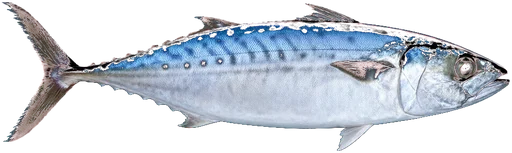
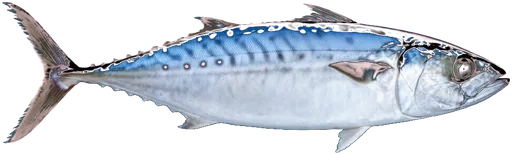
r29：25 种鱼重出为闭嘴素材 + 水族馆按习性水层放鱼
鱼图（素材层）
- fishbatch.ps1 改成自包含（PSScriptRoot 取路径、可直接输出 webp），prompt 里写死闭嘴、negative 补 open mouth/parted lips/teeth
- 25 张全部按新 prompt 重出，逐张裁头验收；原先张嘴明显的（尖吻鲈、白斑狗鱼、鲤鱼、海鲈、鬼头刀、军曹鱼、黄鳍金枪鱼、鳜鱼…）
  再用 Qwen-Image-Edit 以「抬下颌到嘴唇相触」为指令重绘，二次验收后替换
- 只剩大口黑鲈嘴角一条细缝：两种文生图模型 + 编辑模型多 seed + 局部重绘都没压住，已写进已知限制

水族馆（逻辑层）
- species.js 每条鱼新增 layer：top/mid/bot，多水层用 | 分隔（如鲈鱼 top|mid）
- my.js 新增 LAYER_BAND / layerOf / bandY：画布纵向切三段（0.18–0.34 / 0.33–0.55 / 0.55–0.645），
  多水层的鱼每条随机挑一层；底层鱼浮动幅度减半，鱼在水面带以下、河床以上活动
- sw 缓存 v25、资源版本 20261020M、构建号 r29；.gitignore 补 __pycache__

diff --git a/assets/species.js b/assets/species.js
@@ -7,132 +7,134 @@
    lures: 推荐拟饵（3 条）
    tip: 一句话作钓要点
    color/fin/stripe：水族馆里的外形参数（不是为了写实，是为了认得出来）
+   layer: 习性水层 top（中上层）| mid（中层）| bot（底层）；多水层用 | 分隔，
+          水族馆按它把鱼放到位，多水层的鱼每条随机挑一层
    region: cn | global */
 (function () {
   'use strict';
   window.SPECIES_DB = [
     { id: 'bass', zh: '大口黑鲈', en: 'Largemouth Bass', latin: 'Micropterus salmoides', family: '太阳鱼科',
-      water: 'fresh', sizeCm: [20, 55], season: [16, 27], region: 'global',
+      water: 'fresh', sizeCm: [20, 55], season: [16, 27], region: 'global', layer: 'top|mid',
       lures: ['德州钓组贴底', '摇摆小胖 60mm', '水面铅笔（晨昏）'],
       tip: '结构型鱼种：岬角、陡坎、倒木、水草边缘；晨昏贴浅、正午贴深。',
       color: '#7d9a46', fin: '#5d7634', stripe: true },
     { id: 'topmouth', zh: '翘嘴鲌', en: 'Topmouth Culter', latin: 'Culter alburnus', family: '鲤科',
-      water: 'fresh', sizeCm: [25, 80], season: [18, 28], region: 'cn',
+      water: 'fresh', sizeCm: [25, 80], season: [18, 28], region: 'cn', layer: 'top|mid',
       lures: ['铁板 20-30g 远投', '长舌米诺抽停', '亮片串钩压中层'],
       tip: '追饵型：找水面炸水与风浪带，扇形远投后快速收线。',
       color: '#cfd8e3', fin: '#9fb3cc', stripe: false },
     { id: 'mandarin', zh: '鳜鱼', en: 'Mandarin Fish', latin: 'Siniperca chuatsi', family: '鮨科',
-      water: 'fresh', sizeCm: [15, 45], season: [16, 26], region: 'cn',
+      water: 'fresh', sizeCm: [15, 45], season: [16, 26], region: 'cn', layer: 'bot',
       lures: ['软虫德州慢拖乱石', '倒吊打死角', '小胖子撞结构'],
       tip: '伏击型：乱石、桥墩、陡坎根部；贴底慢拖，咬口在停顿那一刻。',
       color: '#8a7a52', fin: '#6b5c3a', stripe: true },
     { id: 'snakehead', zh: '黑鱼（乌鳢）', en: 'Snakehead', latin: 'Channa argus', family: '鳢科',
-      water: 'fresh', sizeCm: [25, 70], season: [20, 30], region: 'cn',
+      water: 'fresh', sizeCm: [25, 70], season: [20, 30], region: 'cn', layer: 'top',
       lures: ['雷蛙打浅滩水草', '浮水软蛙过草洞', '水面波扒'],
       tip: '缺氧耐受力强：浅滩水草、静水湾；无风闷热反而好钓。',
       color: '#4a5a48', fin: '#33402f', stripe: true },
     { id: 'zander', zh: '梭鲈', en: 'Zander', latin: 'Sander lucioperca', family: '鲈科',
-      water: 'fresh', sizeCm: [30, 80], season: [12, 22], region: 'global',
+      water: 'fresh', sizeCm: [30, 80], season: [12, 22], region: 'global', layer: 'mid|bot',
       lures: ['铅头软虫贴底', '深水铁板', '夜钓米诺'],
       tip: '低光性：浑水、夜间、深坎；眼睛反光强，怕强光。',
       color: '#9aa7b5', fin: '#75828f', stripe: true },
     { id: 'trout', zh: '虹鳟', en: 'Rainbow Trout', latin: 'Oncorhynchus mykiss', family: '鲑科',
-      water: 'fresh', sizeCm: [20, 60], season: [8, 18], region: 'global',
+      water: 'fresh', sizeCm: [20, 60], season: [8, 18], region: 'global', layer: 'mid|top',
       lures: ['1.5-3g 小亮片', '微物米诺', '浮水蛋饵'],
       tip: '冷水溪流：急流后的缓水、深潭入口；逆流抛投顺流收。',
       color: '#c98d8d', fin: '#a86f6f', stripe: true },
     { id: 'chub', zh: '马口鱼', en: 'Chinese Hooksnout', latin: 'Opsariichthys bidens', family: '鲤科',
-      water: 'fresh', sizeCm: [8, 22], season: [12, 22], region: 'cn',
+      water: 'fresh', sizeCm: [8, 22], season: [12, 22], region: 'cn', layer: 'top',
       lures: ['1.5g 单钩小亮片', '微物米诺', '小胖子顶流'],
       tip: '溪流精灵：浅滩跌水下方、石缝后；轻抛轻收，别惊水面。',
       color: '#b8c6d4', fin: '#8fa3b6', stripe: false },
     { id: 'bleeker', zh: '白条（䱗）', en: 'Sharpbelly', latin: 'Hemiculter leucisculus', family: '鲤科',
-      water: 'fresh', sizeCm: [6, 18], season: [15, 28], region: 'cn',
+      water: 'fresh', sizeCm: [6, 18], season: [15, 28], region: 'cn', layer: 'top',
       lures: ['0.8g 微物亮片', '小飞蛾串钩', '微型米诺'],
       tip: '表层成群：看到水面碎浪就抛过去，快收才咬。',
       color: '#d7e2ee', fin: '#a9bccd', stripe: false },
     { id: 'catfish', zh: '鲶鱼', en: 'Amur Catfish', latin: 'Silurus asotus', family: '鲶科',
-      water: 'fresh', sizeCm: [30, 90], season: [18, 28], region: 'cn',
+      water: 'fresh', sizeCm: [30, 90], season: [18, 28], region: 'cn', layer: 'bot',
       lures: ['大号软虫贴底', '亮片慢拖', '夜钓沉水米诺'],
       tip: '夜行性：桥洞、深潭、闸口下游；靠气味与侧线，动作要大。',
       color: '#5b5f52', fin: '#3f4238', stripe: false },
     { id: 'yellowcat', zh: '黄颡鱼', en: 'Yellowhead Catfish', latin: 'Tachysurus fulvidraco', family: '鲿科',
-      water: 'fresh', sizeCm: [10, 30], season: [18, 28], region: 'cn',
+      water: 'fresh', sizeCm: [10, 30], season: [18, 28], region: 'cn', layer: 'bot',
       lures: ['小软虫倒吊', '微型铅头跳底', '夜光小亮片'],
       tip: '贴底觅食：沙泥底、乱石缝；小克数跳底最有效。',
       color: '#c2a45a', fin: '#8d7334', stripe: true },
     { id: 'skygazer', zh: '鳡鱼', en: 'Skygazer', latin: 'Elopichthys bambusa', family: '鲤科',
-      water: 'fresh', sizeCm: [40, 120], season: [20, 30], region: 'cn',
+      water: 'fresh', sizeCm: [40, 120], season: [20, 30], region: 'cn', layer: 'top|mid',
       lures: ['大号铁板', '大号抽停米诺', '水面爆水波扒'],
       tip: '江河顶级掠食者：急流与缓流交界、桥墩下；装备要够硬。',
       color: '#aab6c4', fin: '#7d8b9c', stripe: false },
     { id: 'tilapia', zh: '罗非鱼', en: 'Nile Tilapia', latin: 'Oreochromis niloticus', family: '慈鲷科',
-      water: 'fresh', sizeCm: [12, 35], season: [22, 30], region: 'global',
+      water: 'fresh', sizeCm: [12, 35], season: [22, 30], region: 'global', layer: 'mid',
       lures: ['小铅头软虫', '小胖子', '面包虫拟饵'],
       tip: '暖水杂食：浅滩硬底、水草边；口小，用小钩慢拖。',
       color: '#8d9a8a', fin: '#6d7a6a', stripe: true },
     { id: 'carp', zh: '鲤鱼', en: 'Common Carp', latin: 'Cyprinus carpio', family: '鲤科',
-      water: 'fresh', sizeCm: [30, 90], season: [18, 28], region: 'global',
+      water: 'fresh', sizeCm: [30, 90], season: [18, 28], region: 'global', layer: 'bot|mid',
       lures: ['红虫软饵', '玉米拟饵', '小亮片（偶发）'],
       tip: '杂食偏底：泥底、入水口；路亚偶发，别当主攻对象。',
       color: '#b08a52', fin: '#8a6836', stripe: false },
     { id: 'crucian', zh: '鲫鱼', en: 'Crucian Carp', latin: 'Carassius auratus', family: '鲤科',
-      water: 'fresh', sizeCm: [8, 30], season: [15, 26], region: 'cn',
+      water: 'fresh', sizeCm: [8, 30], season: [15, 26], region: 'cn', layer: 'bot|mid',
       lures: ['微型软虫', '0.5g 亮片', '红虫拟饵'],
       tip: '小型杂食：水草边、浅滩；路亚偏娱乐，口很轻。',
       color: '#b9ab84', fin: '#8d8058', stripe: false },
     { id: 'seabass', zh: '海鲈（花鲈）', en: 'Japanese Seabass', latin: 'Lateolabrax japonicus', family: '狼鲈科',
-      water: 'salt', sizeCm: [30, 90], season: [14, 24], region: 'cn',
+      water: 'salt', sizeCm: [30, 90], season: [14, 24], region: 'cn', layer: 'top|mid',
       lures: ['米诺走鲈鱼道', '铅鱼/铁板打流沟', '软虫跳底礁边'],
       tip: '潮流型：河口、礁石岬角、桥墩；涨落潮转换前后两小时最关键。',
       color: '#b7c4d2', fin: '#8b9cb0', stripe: false },
     { id: 'blackporgy', zh: '黑鲷', en: 'Black Porgy', latin: 'Acanthopagrus schlegelii', family: '鲷科',
-      water: 'salt', sizeCm: [15, 45], season: [14, 24], region: 'cn',
+      water: 'salt', sizeCm: [15, 45], season: [14, 24], region: 'cn', layer: 'bot|mid',
       lures: ['小型软虫跳底', '加重铅头探礁', '小铁板'],
       tip: '礁区底层：缝隙、碎石带；咬口干脆，注意磨线。',
       color: '#5a5f66', fin: '#3c4046', stripe: true },
     { id: 'grouper', zh: '青石斑', en: 'Hong Kong Grouper', latin: 'Epinephelus akaara', family: '鮨科',
-      water: 'salt', sizeCm: [20, 50], season: [16, 26], region: 'cn',
+      water: 'salt', sizeCm: [20, 50], season: [16, 26], region: 'cn', layer: 'bot',
       lures: ['重铅软虫打礁洞', '小胖子贴礁', '铁板快速下沉'],
       tip: '伏击型礁鱼：中鱼后必须立刻顶住，否则钻洞切线。',
       color: '#7a5a48', fin: '#5a3f30', stripe: true },
     { id: 'flatfish', zh: '牙鲆', en: 'Olive Flounder', latin: 'Paralichthys olivaceus', family: '牙鲆科',
-      water: 'salt', sizeCm: [25, 70], season: [10, 22], region: 'cn',
+      water: 'salt', sizeCm: [25, 70], season: [10, 22], region: 'cn', layer: 'bot',
       lures: ['软虫贴底慢拖', '铅鱼跳底', '铁板底跳'],
       tip: '沙泥底伏击：慢速贴底，一旦离底就没了口。',
       color: '#9c8f74', fin: '#776c55', stripe: true },
     { id: 'spanishmackerel', zh: '蓝点马鲛', en: 'Japanese Spanish Mackerel', latin: 'Scomberomorus niphonius', family: '鲭科',
-      water: 'salt', sizeCm: [40, 100], season: [16, 26], region: 'cn',
+      water: 'salt', sizeCm: [40, 100], season: [16, 26], region: 'cn', layer: 'top|mid',
       lures: ['快速铁板', '拖钓米诺', '水面铅笔'],
       tip: '高速追击：远投后快速收线，慢了不咬。',
       color: '#5d7f9c', fin: '#3f5c74', stripe: true },
     { id: 'yellowtail', zh: '黄鳍金枪鱼', en: 'Yellowfin Tuna', latin: 'Thunnus albacares', family: '鲭科',
-      water: 'salt', sizeCm: [50, 180], season: [20, 29], region: 'global',
+      water: 'salt', sizeCm: [50, 180], season: [20, 29], region: 'global', layer: 'top|mid',
       lures: ['大号铁板 jigging', 'popping 波扒', '拖钓'],
       tip: '远洋：鸟群、海豚群、流界；装备需求高，注意安全与法规。',
       color: '#3f5a78', fin: '#f2c14e', stripe: false },
     { id: 'mahi', zh: '鬼头刀（鲯鳅）', en: 'Mahi-mahi', latin: 'Coryphaena hippurus', family: '鲯鳅科',
-      water: 'salt', sizeCm: [50, 120], season: [22, 29], region: 'global',
+      water: 'salt', sizeCm: [50, 120], season: [22, 29], region: 'global', layer: 'top',
       lures: ['拖钓羽毛假饵', '水面波扒', '快速铁板'],
       tip: '漂浮物周边集群：看到浮木、马尾藻就绕圈拖。',
       color: '#4f9e8f', fin: '#f2c14e', stripe: false },
     { id: 'barramundi', zh: '尖吻鲈（金目鲈）', en: 'Barramundi', latin: 'Lates calcarifer', family: '尖吻鲈科',
-      water: 'both', sizeCm: [40, 120], season: [24, 32], region: 'global',
+      water: 'both', sizeCm: [40, 120], season: [24, 32], region: 'global', layer: 'mid|top',
       lures: ['大号软蛙', '摇摆小胖撞结构', '水面波扒'],
       tip: '河口与红树林：涨潮进湾、退潮出沟；撞结构后立刻收线。',
       color: '#b8b4a0', fin: '#8a8672', stripe: false },
     { id: 'pike', zh: '白斑狗鱼', en: 'Northern Pike', latin: 'Esox lucius', family: '狗鱼科',
-      water: 'fresh', sizeCm: [40, 120], season: [8, 20], region: 'global',
+      water: 'fresh', sizeCm: [40, 120], season: [8, 20], region: 'global', layer: 'mid|top',
       lures: ['大号软饵', '大号亮片', '水面蛙'],
       tip: '冷水伏击：水草边缘与结构落差；一定要用钢丝前导。',
       color: '#6d8a5a', fin: '#4f6a3f', stripe: true },
     { id: 'cobia', zh: '军曹鱼（海鲡）', en: 'Cobia', latin: 'Rachycentron canadum', family: '军曹鱼科',
-      water: 'salt', sizeCm: [50, 130], season: [20, 28], region: 'cn',
+      water: 'salt', sizeCm: [50, 130], season: [20, 28], region: 'cn', layer: 'mid|bot',
       lures: ['大号软虫贴底', '铁板', '活饵'],
       tip: '跟随大型物体移动：浮标、船底、沉船；先远抛再快收。',
       color: '#5a5a52', fin: '#3d3d36', stripe: true },
     { id: 'amberjack', zh: '高体鰤（琥珀鱼）', en: 'Amberjack', latin: 'Seriola dumerili', family: '鲹科',
-      water: 'salt', sizeCm: [40, 120], season: [18, 27], region: 'global',
+      water: 'salt', sizeCm: [40, 120], season: [18, 27], region: 'global', layer: 'mid|top',
       lures: ['重型铁板', '大号米诺', '水面波扒'],
       tip: '深场中层：沉船、暗礁上方；下沉到位再快速抽动。',
       color: '#c9b06a', fin: '#9a8342', stripe: false }

diff --git a/assets/my.js b/assets/my.js
@@ -1239,6 +1239,24 @@
   var SURF = 0.13;   // 水面带高度（占画布高）
   var BED = 0.66;    // 河床起始高度（占画布高）
 
+  /* 习性水层 → 画布纵向区间（比例）。区间刻意落在水面带以下、河床以上：
+     底层鱼贴着沙但不钻进石头里，中上层鱼不会顶到水面。 */
+  var LAYER_BAND = {
+    top: [0.18, 0.34],
+    mid: [0.33, 0.55],
+    bot: [0.55, 0.645]
+  };
+  function layerOf(sp) {
+    var raw = (sp && sp.layer) ? String(sp.layer) : 'mid';
+    var parts = raw.split('|').filter(function (x) { return LAYER_BAND[x]; });
+    if (!parts.length) parts = ['mid'];
+    return parts[Math.floor(Math.random() * parts.length)];
+  }
+  function bandY(layer, H) {
+    var b = LAYER_BAND[layer] || LAYER_BAND.mid;
+    return [b[0] * H, b[1] * H];
+  }
+
   function buildBg(W, H) {
     var dpr = aqua.dpr || Math.min(2, window.devicePixelRatio || 1);
     var c = document.createElement('canvas');
@@ -1402,7 +1420,7 @@
     var L = (16 + f.size * 15) * (0.55 + z * 0.95) * (k || 1) * (f.vary || 1);
     var H = L * img.height / img.width;
     var alpha = (0.45 + z * 0.55) * (farPass ? 0.92 : 1);
-    var bob = Math.sin(t * 0.0011 * f.speed + f.phase) * H * 0.05;
+    var bob = Math.sin(t * 0.0011 * f.speed + f.phase) * H * 0.05 * (f.bobAmp || 1);
     var tilt = Math.sin(t * 0.0009 * f.speed + f.phase) * 0.03;
 
     ctx.save();
@@ -1688,16 +1706,17 @@
     var W = g.w, H = g.h;
     aqua.t += Math.min(48, aqua.last ? (aqua.avgDt || 16) : 16);
 
-    // 鱼只在中上层活动：水面带下面、河床上面（视频里翘嘴也是贴中上层游）
-    var topY = H * (SURF + 0.06), botY = H * (BED - 0.04);
+    // 每条鱼按自己的习性水层活动：上层贴水面、中层在中间、底层贴着河床
     aqua.fishes.forEach(function (f) {
+      if (!f.layer) f.layer = layerOf(f.sp);
+      var bnd = bandY(f.layer, H);
       var speed = (0.18 + f.z * 0.55) * (0.7 + f.size * 0.4);
       f.x += f.dir * speed;
       f.y += Math.sin(aqua.t * 0.0009 * (0.6 + f.z) + f.phase) * 0.12;
-      if (f.y < topY) f.y = topY;
-      if (f.y > botY) f.y = botY;
-      if (f.dir > 0 && f.x > W + 60) { f.x = -60; f.y = topY + Math.random() * (botY - topY); }
-      if (f.dir < 0 && f.x < -60) { f.x = W + 60; f.y = topY + Math.random() * (botY - topY); }
+      if (f.y < bnd[0]) f.y = bnd[0];
+      if (f.y > bnd[1]) f.y = bnd[1];
+      if (f.dir > 0 && f.x > W + 60) { f.x = -60; f.y = bnd[0] + Math.random() * (bnd[1] - bnd[0]); }
+      if (f.dir < 0 && f.x < -60) { f.x = W + 60; f.y = bnd[0] + Math.random() * (bnd[1] - bnd[0]); }
     });
     // 悬浮微粒：慢慢往上飘，飘出水面再从底部回来
     aqua.bubbles.forEach(function (b) {
@@ -1716,15 +1735,19 @@
     var g0 = resizeAqua(canvas);
     aqua.fishes = buildFishes().map(function (f, i) {
       var z = 0.25 + Math.random() * 0.75;
+      // 多水层的鱼（比如鲈鱼 上+中）每条随机挑一层，同一缸里不会全挤在一起
+      var layer = layerOf(f.sp);
+      var bnd = bandY(layer, g0.h);
       return {
         sp: f.sp, fm: formOf(f.sp), size: f.size, phase: i * 1.7, z: z, vary: 0.92 + Math.random() * 0.16,
+        layer: layer,
         x: Math.random() * g0.w,
-        y: g0.h * (SURF + 0.08) + Math.random() * g0.h * (BED - SURF - 0.12),
+        y: bnd[0] + Math.random() * (bnd[1] - bnd[0]),
+        bobAmp: layer === 'bot' ? 0.5 : 1,
         dir: Math.random() > 0.5 ? 1 : -1,
         speed: 0.2 + Math.random() * 0.35
       };
     });
-    // 预载素材：鱼贴图 + 河床贴图（本地文件，解码完就替换掉矢量画法）
     aqua.fishes.forEach(function (f) { spriteOf(f.sp); });
     decorImg('bed-lake');
     // 微粒与细草按水箱大小加密（全屏时别空得发慌）

diff --git a/index.html b/index.html
@@ -13,8 +13,8 @@
 <link rel="apple-touch-icon" href="icons/icon-192.png">
 <link rel="icon" href="icons/icon.svg" type="image/svg+xml">
 <link rel="stylesheet" href="https://unpkg.com/leaflet@1.9.4/dist/leaflet.css">
-<link rel="stylesheet" href="assets/theme.css?v=20261020L">
-<link rel="stylesheet" href="assets/app.css?v=20261020L">
+<link rel="stylesheet" href="assets/theme.css?v=20261020M">
+<link rel="stylesheet" href="assets/app.css?v=20261020M">
 </head>
 <body class="hoverable">
 <div class="app">
@@ -658,18 +658,18 @@
 <div id="toast" class="toast" role="status" aria-live="polite"></div>
 
 <script src="https://unpkg.com/leaflet@1.9.4/dist/leaflet.js"></script>
-<script src="assets/store.js?v=20261020L"></script>
-<script src="assets/api.js?v=20261020L"></script>
-<script src="assets/engine.js?v=20261020L"></script>
-<script src="assets/sat.js?v=20261020L"></script>
-<script src="assets/species.js?v=20261020L"></script>
-<script src="assets/i18n.js?v=20261020L"></script>
-<script src="assets/ai.js?v=20261020L"></script>
-<script src="assets/my.js?v=20261020L"></script>
-<script src="assets/share.js?v=20261020L"></script>
-<script src="assets/ui.js?v=20261020L"></script>
-<script src="assets/icons.js?v=20261020L"></script>
-<script src="assets/app.js?v=20261020L"></script>
-<script src="assets/agent.js?v=20261020L"></script>
+<script src="assets/store.js?v=20261020M"></script>
+<script src="assets/api.js?v=20261020M"></script>
+<script src="assets/engine.js?v=20261020M"></script>
+<script src="assets/sat.js?v=20261020M"></script>
+<script src="assets/species.js?v=20261020M"></script>
+<script src="assets/i18n.js?v=20261020M"></script>
+<script src="assets/ai.js?v=20261020M"></script>
+<script src="assets/my.js?v=20261020M"></script>
+<script src="assets/share.js?v=20261020M"></script>
+<script src="assets/ui.js?v=20261020M"></script>
+<script src="assets/icons.js?v=20261020M"></script>
+<script src="assets/app.js?v=20261020M"></script>
+<script src="assets/agent.js?v=20261020M"></script>
 </body>
 </html>

diff --git a/sw.js b/sw.js
@@ -4,7 +4,7 @@
    · 静态资源用 cache-first + 后台更新：装过一次之后离线也能开。
    · 跨域接口（Open-Meteo / OSM / Sentinel-2 等）一律不进缓存，由 api.js 自己的分级缓存负责，
      保证「水文数据永远是最新一次成功请求」。 */
- var CACHE = 'lurecast-shell-v24';
+ var CACHE = 'lurecast-shell-v25';
 var SHELL = [
   './', './index.html',
   './assets/theme.css', './assets/app.css',

diff --git a/assets/app.js b/assets/app.js
@@ -42,7 +42,7 @@
 
   /* 构建标记：每次发版改这里。页面上能看到它，一眼就能判断「我现在看的是不是旧版」。
      index.html 里资源 URL 上的 ?v= 要同步改，否则 Service Worker 会继续喂旧 JS/CSS。 */
-  var BUILD = '2026-10-20 · r28';
+  var BUILD = '2026-10-20 · r29';
   var S = {
     me: null, place: null, tzOffset: 0,
     wx: null, sea: null, flood: null, osm: null,

diff --git a/README.md b/README.md
@@ -159,7 +159,10 @@
    ① 画面分三段——顶部是**从水下看到的水面**（起伏高光 + 同心涟漪）、中段是**青碧色水体 + 从水面斜射的丁达尔光柱**、底部是**砂与卵石河床**（贴图 `bed-lake.webp`，Qwen-Image 出图 1.2 MB → WebP 74 KB）+ 稀疏细草；
    ② 河床贴图按「屏幕上卵石该多大」反推缩放，再横向镜像平铺、每块错位 1.2%，4:1 的宽卡片和竖屏全屏都不会把石头放大成巨石或糊成砂纸；
    ③ 床带顶端用该高度的水体色起手渐变，不留硬边；砂床还被水色 `multiply` 浸染一层，压住照片里偏暖的砂色。
-   动态：**尾巴**切成 6 段、每段绕自身前缘按正弦相位旋转（越靠尾摆幅越大，是真的「摆」不是平移）；**鳃盖**叠一层随呼吸外张的鳃区影像 + 细弧阴影；**嘴**在吻端按呼吸节奏开合；整条鱼有上下浮沉与 ±0.03 rad 俯仰，但只在**水面带以下、床带以上**活动，不会钻进石头里。景深：远批鱼（`z<0.58`）画完压一层水色薄雾 → 近处鱼 → 前景细草挡在最前，远处鱼加 `ctx.filter` 模糊。素材缺失或未解码完时**自动退回矢量画法**（体征表 `FISH_FORM`）。画质自适应：连续掉帧自动降级（少焦散、关模糊、鱼整条绘制），`性能优先` 下只画静态一帧（贴图解码完会补画这一帧）。右上角按钮可**全屏**看，底部列出这个缸里每种鱼的名字与配色。生成与抠图脚本在 `native/tools/`（`fishgen.ps1` / `fishcut.py` / `fishbatch.ps1`）。
+   动态：**尾巴**切成 6 段、每段绕自身前缘按正弦相位旋转（越靠尾摆幅越大，是真的「摆」不是平移）；**鳃盖**叠一层随呼吸外张的鳃区影像 + 细弧阴影；**嘴**在吻端按呼吸节奏开合（贴图本身是闭嘴的，动的是嘴上那一小片影像）；整条鱼有上下浮沉与 ±0.03 rad 俯仰。
+   **按习性水层放鱼**：`species.js` 每条鱼带 `layer`（`top` 上、`mid` 中、`bot` 底，多水层写 `top|mid` 这种），水族馆把画布切成三段区间（0.18–0.34 / 0.33–0.55 / 0.55–0.645），**多水层的鱼每条随机挑一层**，所以同一缸里鲈鱼有的贴水面有的在中层；底层鱼（鳜鱼、鲶鱼、石斑、牙鲆、梭鲈）压着河床游且浮动幅度减半，不会钻进石头里。
+   景深：远批鱼（`z<0.58`）画完压一层水色薄雾 → 近处鱼 → 前景细草挡在最前，远处鱼加 `ctx.filter` 模糊。素材缺失或未解码完时**自动退回矢量画法**（体征表 `FISH_FORM`）。画质自适应：连续掉帧自动降级（少焦散、关模糊、鱼整条绘制），`性能优先` 下只画静态一帧（贴图解码完会补画这一帧）。右上角按钮可**全屏**看，底部列出这个缸里每种鱼的名字与配色。生成与抠图脚本在 `native/tools/`（`fishgen.ps1` / `fishcut.py` / `fishbatch.ps1`，`fishbatch.ps1 -Force` 全量重出、`-Only bass,pike` 重出指定几种）。
+   **闭嘴出图**（2026-10-18）：prompt 里显式写「lips pressed together / jaw shut / no teeth」，negative 里再排一遍「open mouth / gaping / parted lips」，已出的 25 张逐张把头剖出来验收；原来张着嘴的（尖吻鲈、白斑狗鱼、鲤鱼、海鲈、鬼头刀、军曹鱼、黄鳍金枪鱼等）用 Qwen-Image-Edit 以「把下颌抬到嘴唇相触」为指令重绘。
 4. **更多 · 环境分怎么算 / 数据来源与局限**：两张说明长卡（六因子分数与权重、六个数据源的取数状态与局限）默认**收起**，点行首的「更多」展开。它们原来挂在「结论」页底部，把结论页拉得很长，现在挪到「我的」里收着，结论页一屏就能看到结论本身。
 
 ## 体验细节（2026-10 这一轮）
@@ -405,6 +408,9 @@ lurecast/
 - Overpass 冷启动 5–30 秒（已做 10 分钟缓存 + 分阶段渲染：气象先出，岸线后到）。
 - 目标鱼的口味参数是经验值，需要按你所在水域实测再调 `engine.js` 里的 `SPECIES`。
 - 还没有：钓点收藏与渔获记录（有了真实渔获日志才能把权重从"经验"改成"校准"）、离线包、多语言。
+- 水族馆同时最多显示 12 条鱼（`buildFishes().slice(0, 12)`），解锁 25 种也不会一次全撒进去。
+- 大口黑鲈那张贴图**嘴角仍留一条细缝**：两种文生图模型 + 编辑模型多 seed + 局部重绘都没能把它彻底闭合，
+  再往下只能换一张不同角度的鲈鱼图，或者手工修像素——等你定方向。
 
 
 
